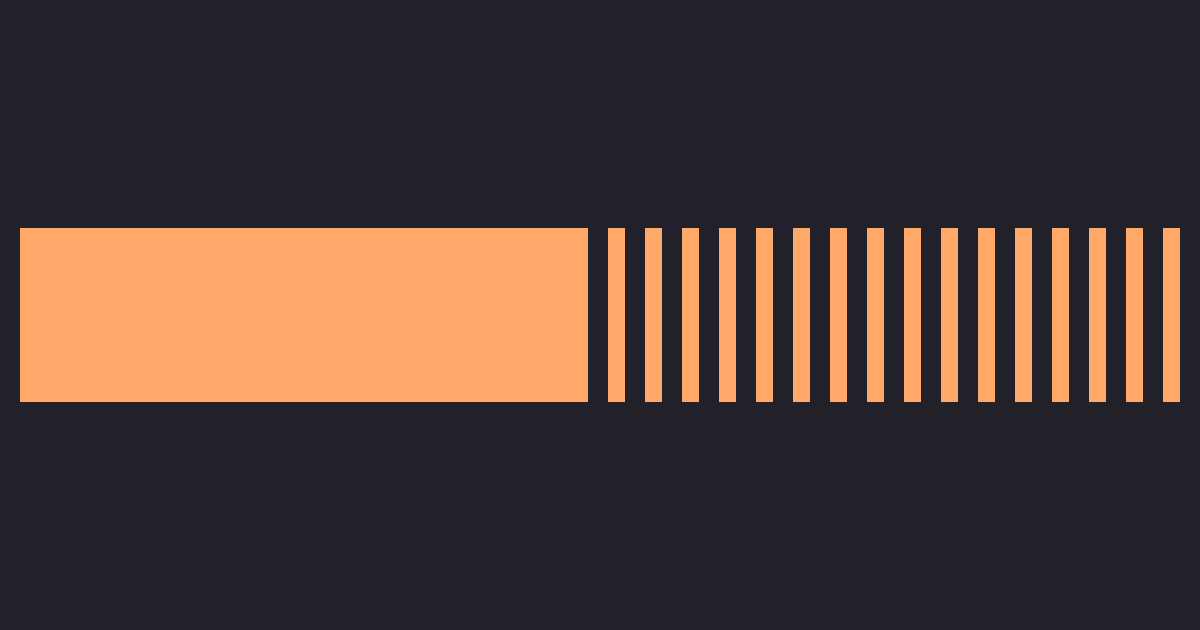
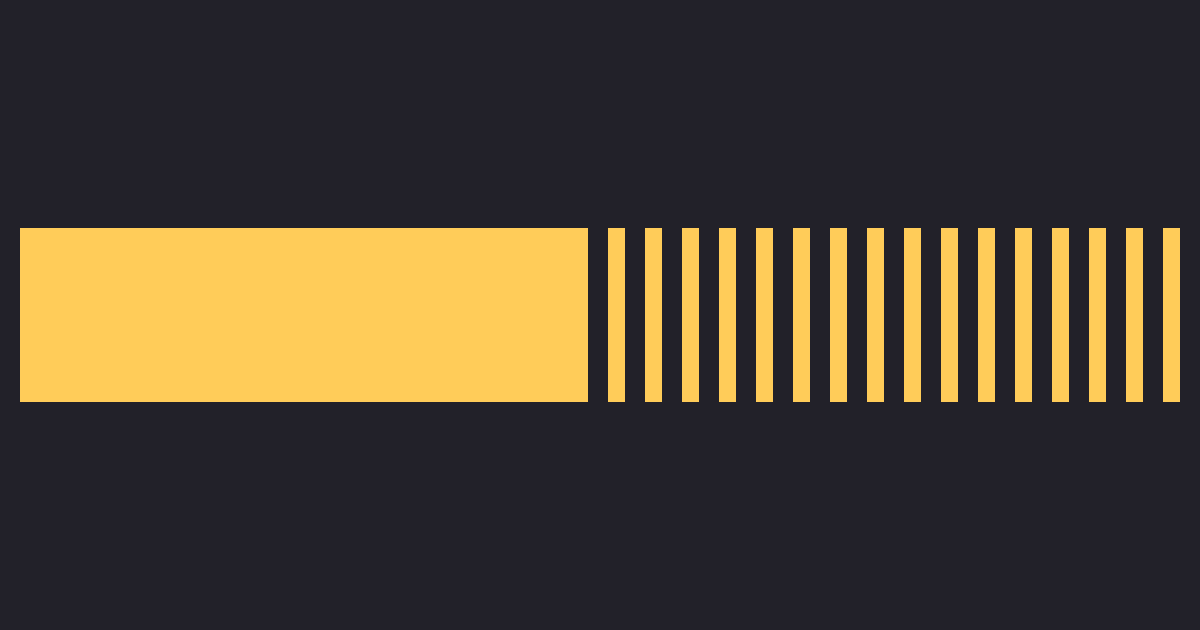
update base terminal.css to the new default scheme

Changed region(s): [[0.0, 0.3619, 0.9867, 0.6635]]

diff --git a/static/terminal.css b/static/terminal.css
@@ -1,0 +1,377 @@
+@import url("https://fonts.googleapis.com/css2?family=Fira+Code&family=Fira+Code:wght@400;700&display=swap");
+
+:root {
+  --background: #1a170f;
+  --foreground: #eceae5;
+  --accent: #eec35e;
+  --font-size: 1rem;
+  --line-height: 1.54rem;
+  --radius: 0px;
+}
+
+html {
+  box-sizing: border-box;
+}
+
+*,
+*:before,
+*:after {
+  box-sizing: inherit;
+  margin: 0;
+  padding: 0;
+}
+
+body {
+  margin: 0;
+  padding: 0;
+  font-family:
+    "Fira Code",
+    Monaco,
+    Consolas,
+    "Ubuntu Mono",
+    monospace;
+  font-size: 1rem;
+  font-weight: 400;
+  line-height: var(--line-height);
+  letter-spacing: -0.02em;
+  background-color: var(--background);
+  color: var(--foreground);
+  text-rendering: optimizeLegibility;
+  -webkit-font-smoothing: antialiased;
+  font-feature-settings: "liga", "tnum", "zero", "ss01", "locl";
+  font-variant-ligatures: contextual;
+  -webkit-overflow-scrolling: touch;
+  -webkit-text-size-adjust: 100%;
+}
+
+::placeholder {
+  color: color-mix(in srgb var(--foreground) 50%, black);
+}
+
+h1,
+h2 {
+  font-size: calc(var(--font-size) * 1.1);
+  text-transform: uppercase;
+  letter-spacing: 0.04em;
+}
+
+h1 {
+  text-decoration: underline;
+  text-decoration-thickness: 2px;
+  text-underline-offset: calc(var(--font-size) * 0.2);
+}
+
+h3,
+h4,
+h5,
+h6 {
+  font-size: calc(var(--font-size) * 1.1);
+  letter-spacing: 0.04em;
+}
+
+h1,
+h2,
+h3,
+h4,
+h5,
+h6,
+p,
+ul,
+ol,
+img,
+figure,
+video,
+table {
+  margin: calc(var(--line-height) * 1.2) 0;
+}
+
+a {
+  color: var(--accent);
+}
+
+button {
+  position: relative;
+  font: inherit;
+  font-weight: bold;
+  text-decoration: none;
+  text-align: center;
+  background: transparent;
+  color: var(--accent);
+  padding: 5px 18px;
+  border: 4px solid var(--accent);
+  border-radius: var(--radius);
+  transition: background 0.15s linear;
+  appearance: none;
+  cursor: pointer;
+  outline: none;
+}
+
+button:hover {
+  background: color-mix(in srgb, var(--accent) 15%, transparent);
+}
+
+button:focus-visible,
+a:focus-visible {
+  outline: 1px solid var(--accent);
+  outline-offset: 2px;
+}
+
+fieldset {
+  display: inline-block;
+  border: 2px solid var(--foreground);
+  border-radius: calc(var(--radius) * 1.6);
+  padding: 10px;
+}
+
+fieldset *:first-child {
+  margin-top: 0;
+}
+
+fieldset input,
+fieldset select,
+fieldset textarea,
+fieldset label,
+fieldset button {
+  margin-top: calc(var(--line-height) * 0.5);
+  width: 100%;
+}
+
+label {
+  display: inline-block;
+}
+
+label input {
+  margin-top: 0;
+}
+
+input,
+textarea,
+select {
+  background: transparent;
+  color: var(--foreground);
+  border: 1px solid var(--foreground);
+  border-radius: var(--radius);
+  padding: 10px;
+  font: inherit;
+  appearance: none;
+}
+
+input[type="checkbox"] {
+  width: auto;
+}
+
+input:focus-visible,
+input:active,
+textarea:focus-visible,
+textarea:active,
+select:focus-visible,
+select:active {
+  border-color: var(--accent);
+  outline: 1px solid var(--accent);
+  outline-offset: 2px;
+}
+
+input:active,
+textarea:active,
+select:active {
+  box-shadow: none;
+}
+
+select {
+  background-image: linear-gradient(
+      45deg,
+      transparent 50%,
+      var(--foreground) 50%
+    ),
+    linear-gradient(135deg, var(--foreground) 50%, transparent 50%);
+  background-position: calc(100% - 20px), calc(100% - 1em);
+  background-size:
+    5px 5px,
+    5px 5px;
+  background-repeat: no-repeat;
+  padding-right: 40px;
+}
+
+select option {
+  background: var(--background);
+}
+
+input[type="checkbox"] {
+  vertical-align: middle;
+  padding: 10px;
+  box-shadow: inset 0 0 0 3px var(--background);
+}
+
+input[type="checkbox"]:checked {
+  background: var(--accent);
+}
+
+img {
+  display: block;
+  max-width: 100%;
+  border: 8px solid var(--accent);
+  border-radius: var(--radius);
+  padding: 8px;
+  overflow: hidden;
+}
+
+figure img,
+figure video {
+  margin-bottom: 0;
+}
+
+figure figcaption {
+  background: var(--accent);
+  color: var(--background);
+  text-align: center;
+  font-size: 1rem;
+  font-weight: normal;
+  margin-top: -8px;
+  border-radius: 0 0 var(--radius) var(--radius);
+}
+
+ul,
+ol {
+  margin-left: 4ch;
+  padding: 0;
+}
+
+ul ul,
+ul ol,
+ol ul,
+ol ol {
+  margin-top: 0;
+}
+
+li::marker {
+  color: var(--accent);
+}
+
+ul li,
+ol li {
+  position: relative;
+}
+
+code,
+kbd {
+  font-family:
+    "Fira Code",
+    Monaco,
+    Consolas,
+    Ubuntu Mono,
+    monospace !important;
+  font-feature-settings: normal;
+  background: color-mix(in srgb, var(--foreground) 5%, transparent);
+  color: var(--accent);
+  padding: 1px 6px;
+  margin: 0 2px;
+  font-size: 0.95rem;
+}
+
+kbd {
+  border-top: 1px solid color-mix(in srgb, var(--accent) 25%, transparent);
+  border-left: 1px solid var(--accent);
+  border-right: 1px solid var(--accent);
+  border-bottom: 4px solid var(--accent);
+  border-radius: 4px;
+}
+
+code code {
+  background: transparent;
+  padding: 0;
+  margin: 0;
+}
+
+pre {
+  tab-size: 4;
+  background: color-mix(in srgb, var(--foreground) 5%, transparent) !important;
+  color: var(--foreground);
+  padding: 20px 10px;
+  font-size: 0.95rem !important;
+  overflow: auto;
+  border-radius: var(--radius);
+  border: 1px solid color-mix(in srgb, var(--foreground) 10%, transparent);
+}
+
+pre code {
+  background: none !important;
+  margin: 0;
+  padding: 0;
+  font-size: inherit;
+  border: none;
+}
+
+sup {
+  line-height: 0;
+}
+
+abbr {
+  position: relative;
+  text-decoration-style: wavy;
+  text-decoration-color: var(--accent);
+  cursor: help;
+}
+
+sub {
+  bottom: -0.25em;
+}
+
+sup {
+  top: -0.25em;
+}
+
+mark {
+  background: color-mix(in srgb, var(--accent) 45%, transparent);
+  color: var(--foreground);
+}
+
+blockquote {
+  position: relative;
+  border-top: 1px solid var(--accent);
+  border-bottom: 1px solid var(--accent);
+  margin: 0;
+  padding: 25px;
+}
+
+blockquote:before {
+  content: ">";
+  display: block;
+  position: absolute;
+  left: 0;
+  color: var(--accent);
+}
+
+blockquote p:first-child {
+  margin-top: 0;
+}
+
+blockquote p:last-child {
+  margin-bottom: 0;
+}
+
+table {
+  table-layout: auto;
+  border-collapse: collapse;
+}
+
+table,
+th,
+td {
+  border: 2px solid var(--foreground);
+  padding: 10px;
+}
+
+th {
+  border-style: solid;
+  color: var(--foreground);
+  text-align: left;
+  text-transform: uppercase;
+  letter-spacing: 0.04em;
+}
+
+hr {
+  width: 100%;
+  border: none;
+  background: var(--accent);
+  height: 2px;
+}
